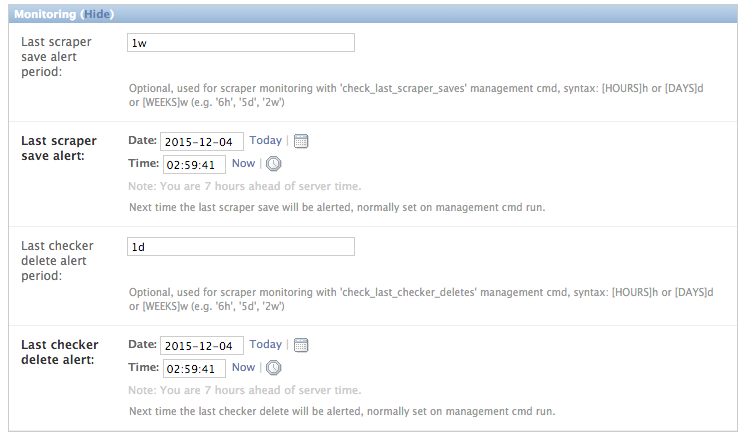
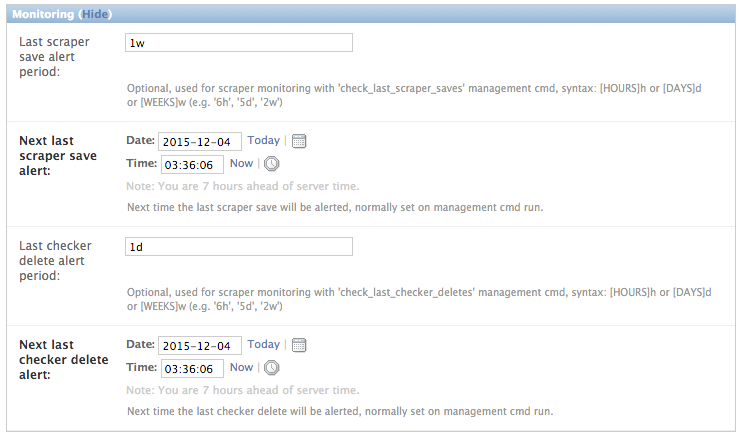
Updated monitoring section in docs

diff --git a/dynamic_scraper/admin.py b/dynamic_scraper/admin.py
@@ -141,8 +141,8 @@ class ScraperAdmin(admin.ModelAdmin):
         }),
         ('Monitoring', {
             'classes': ('collapse',),
-            'fields': ('last_scraper_save_alert_period', 'last_scraper_save_alert',
-                'last_checker_delete_alert_period', 'last_checker_delete_alert',)
+            'fields': ('last_scraper_save_alert_period', 'next_last_scraper_save_alert',
+                'last_checker_delete_alert_period', 'next_last_checker_delete_alert',)
         }),
         (None, {
             'fields': ('comments',)

diff --git a/docs/basic_services.rst b/docs/basic_services.rst
@@ -90,9 +90,22 @@ Monitoring Automation
 
 You can use the following Django ``management commands`` to monitor your scrapers and checkers on a regular basis::
 
-  python manage.py check_last_scraper_saves
-  python manage.py check_last_checker_deletes
+  python manage.py check_last_scraper_saves [--send-admin-mail] [--update-next-alert]
+  python manage.py check_last_checker_deletes [--send-admin-mail] [--update-next-alert]
 
-These will check all the timestamps for scrapers where the alert periods are set and send an error mail
-if the ``--send-admin-mail`` flag is set. These management commands can be used e.g. with a ``cronjob`` to automatically
-check scraper/checker functionality.
+Standard behaviour of the commands is to check, if the last scraper save or last checker delete occured is older
+than the corresponding alert period set (see configuration section above). If the ``--send-admin-mail`` flag is set
+an alert mail will be send to all admin users defined in the Django ``settings.py`` file. Additionally the next
+alert timestamps (see Django admin form) will be set to the current timestamp.
+
+Practically this leads to a lot of alerts/mails (depending on the frequency of your cronjobs) once an alert
+situation triggers. If you want to switch from a ``Report-Always`` to a ``Report-Once`` (more or less) behaviour
+you can set the ``--update-next-alert`` flag. This will set the corresponding next alert timestamp in the future
+by your alert period set as the earliest time for a new alert. 
+
+An alert for a  scraper with an alert period of 2 weeks will then trigger first after the last item was scraped
+more than 2 weeks ago. With the above flag, the next alert will then be earliest 2 weeks after the first alert.
+
+.. note::
+   Using the ``--update-next-alert`` flag only makes sense if your periods for your alerts are significantly 
+   longer (e.g. 1 week+) than your cronjob frequency (e.g. every day).

diff --git a/docs/development.rst b/docs/development.rst
@@ -96,6 +96,8 @@ Release Notes
 =============
 **Changes in version 0.8.10-beta** (2015-12-04)
 
+* New ``--update-next-alert`` flag for monitoring management cmds to reduce amount of mail alerts,
+  see updated :ref:`monitoring` section for details
 * New migration ``0015``, run Django ``migrate`` command
 
 **Changes in version 0.8.9-beta** (2015-12-01)
